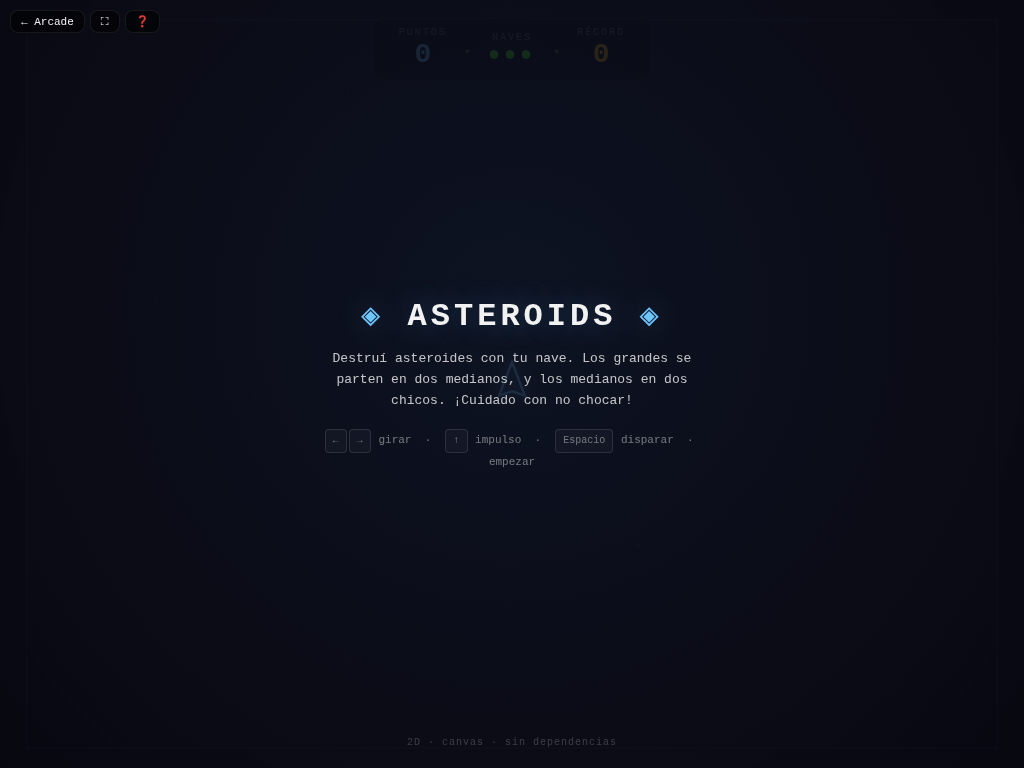
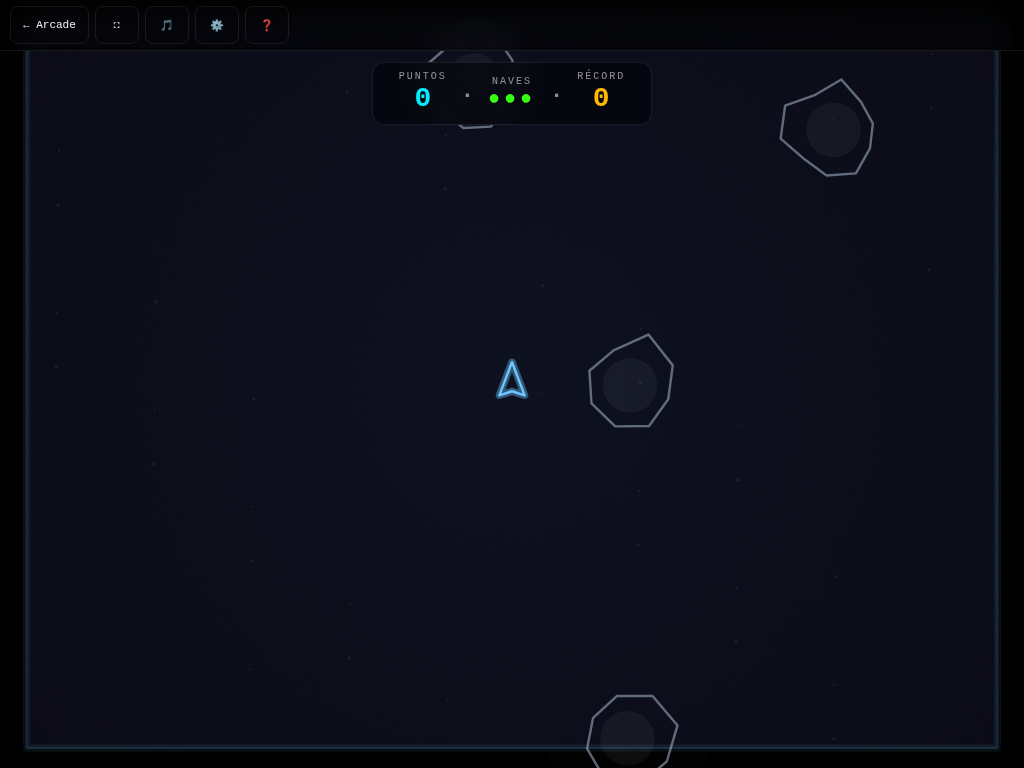
chore: regenerar screenshots de los juegos a pantalla completa estilo qbert/raiden

diff --git a/scripts/shots.js b/scripts/shots.js
@@ -1,0 +1,158 @@
+/* eslint-env node */
+// Regenera las screenshots de todos los juegos (games/<id>/screenshot.png) con
+// el diseño de captura a pantalla completa estilo qbert/raiden: canvas estirado
+// al viewport 1024×768 sobre fondo oscuro neón. No modifica el código de los
+// juegos: solo inyecta CSS temporal para la captura.
+// Uso:
+//   node scripts/shots.js
+//   node scripts/shots.js --game=pong
+//   node scripts/shots.js --headful
+import { statSync } from 'node:fs';
+import { createReadStream } from 'node:fs';
+import { writeFileSync } from 'node:fs';
+import http from 'node:http';
+import path from 'node:path';
+import { fileURLToPath } from 'node:url';
+import { chromium } from 'playwright';
+import { games } from '../games.js';
+
+const ROOT = path.resolve(path.dirname(fileURLToPath(import.meta.url)), '..');
+const PORT = 8127;
+const VIEWPORT = { width: 1024, height: 768 };
+const args = process.argv.slice(2);
+const getArg = (name) => {
+  const hit = args.find((a) => a.startsWith(`--${name}=`));
+  return hit ? hit.slice(name.length + 3) : null;
+};
+const onlyGame = getArg('game');
+const headful = args.includes('--headful');
+
+const MIME = {
+  '.html': 'text/html; charset=utf-8',
+  '.js': 'text/javascript; charset=utf-8',
+  '.mjs': 'text/javascript; charset=utf-8',
+  '.css': 'text/css; charset=utf-8',
+  '.json': 'application/json; charset=utf-8',
+  '.svg': 'image/svg+xml',
+  '.png': 'image/png',
+};
+const server = http.createServer((req, res) => {
+  try {
+    const urlPath = decodeURIComponent(new URL(req.url, 'http://x').pathname);
+    let filePath = path.normalize(path.join(ROOT, urlPath));
+    if (!filePath.startsWith(ROOT) || path.basename(filePath).startsWith('.')) {
+      res.writeHead(403).end();
+      return;
+    }
+    if (!statSync(filePath).isFile()) {
+      if (urlPath === '/' || urlPath === '') filePath = path.join(ROOT, 'index.html');
+      else {
+        res.writeHead(404).end();
+        return;
+      }
+    }
+    const ext = path.extname(filePath).toLowerCase();
+    res.writeHead(200, {
+      'Content-Type': MIME[ext] || 'application/octet-stream',
+      'Cache-Control': 'no-store',
+    });
+    createReadStream(filePath).pipe(res);
+  } catch {
+    res.writeHead(404).end();
+  }
+});
+await new Promise((r) => server.listen(PORT, '127.0.0.1', r));
+
+// CSS de captura: el canvas ocupa todo el viewport sobre fondo oscuro neón;
+// se ocultan loading, barra de juego y controles táctiles para una escena pura.
+const STYLE = `
+html, body { background: #05060f !important; }
+#gameCanvas {
+  position: fixed !important;
+  inset: 0 !important;
+  margin: 0 !important;
+  width: 100vw !important;
+  height: 100vh !important;
+  display: block !important;
+  image-rendering: auto !important;
+}
+#loading, #touchControls {
+  display: none !important;
+}
+`;
+
+const canvasStats = (p) =>
+  p.evaluate(() => {
+    const c = document.getElementById('gameCanvas');
+    if (!c) return { bright: 0, total: 0 };
+    const ctx = c.getContext('2d');
+    if (!ctx) return { bright: 0, total: 0 };
+    const { width: w, height: h } = c;
+    const d = ctx.getImageData(0, 0, w, h).data;
+    let bright = 0;
+    const step = 8;
+    for (let i = 0; i < d.length; i += step * 4) {
+      const r = d[i];
+      const g = d[i + 1];
+      const b = d[i + 2];
+      if (r + g + b > 200) bright++;
+      else if (r + g + b > 60) bright += 0.35;
+    }
+    return { bright, total: Math.ceil(d.length / (step * 4)) };
+  });
+
+const shot = async (p, attempt = 0) => {
+  try {
+    return await p.screenshot({ type: 'png', timeout: 45000 });
+  } catch (err) {
+    if (attempt < 2) {
+      await p.waitForTimeout(800);
+      return shot(p, attempt + 1);
+    }
+    throw err;
+  }
+};
+
+const browser = await chromium.launch({ channel: 'chrome', headless: !headful });
+const results = [];
+for (const game of games) {
+  if (onlyGame && game.id !== onlyGame) continue;
+  const page = await browser.newPage({ viewport: VIEWPORT });
+  const errors = [];
+  page.on('pageerror', (e) => errors.push(String(e).split('\n')[0]));
+  try {
+    await page.goto(`http://127.0.0.1:${PORT}/games/${game.id}/index.html`, {
+      waitUntil: 'domcontentloaded',
+    });
+    await page.addStyleTag({ content: STYLE });
+    await page.waitForTimeout(1100);
+    // Secuencia de arranque probada: clicks + Enter/r alternados hasta que el
+    // juego arranque (el overlay se oculta). La mayor parte de la composición
+    // neón aparece en partida.
+    for (let i = 0; i < 4; i++) {
+      await page.keyboard.press(i % 2 ? 'Enter' : 'r');
+      await page.mouse.click(512, 384);
+      await page.waitForTimeout(700);
+    }
+    await page.waitForTimeout(1400);
+    const s1 = await canvasStats(page);
+    const buf = await shot(page);
+    const file = path.join(ROOT, 'games', game.id, 'screenshot.png');
+    writeFileSync(file, buf);
+    const frac = ((s1.bright / s1.total) * 100).toFixed(1);
+    results.push({ id: game.id, frac, errors, bytes: buf.length });
+    const warn = errors.length ? `  ⚠ ${errors.join('; ')}` : '';
+    console.log(`${game.id.padEnd(16)} shot 1024x768 bright≈${frac}%  ${buf.length}B${warn}`);
+  } catch (err) {
+    results.push({ id: game.id, frac: -1, errors: [String(err).split('\n')[0]], bytes: 0 });
+    console.error(`✖ ${game.id}: ${String(err).split('\n')[0]}`);
+  }
+  await page.close();
+}
+
+const ok = results.filter((r) => r.frac >= 0 && r.errors.length === 0).length;
+const withErr = results.filter((r) => r.errors.length > 0).map((r) => r.id);
+console.log(`\nResumen: ${ok}/${results.length} capturas OK`);
+if (withErr.length) console.log(`Con errores de consola: ${withErr.join(', ')}`);
+await browser.close();
+server.close();
